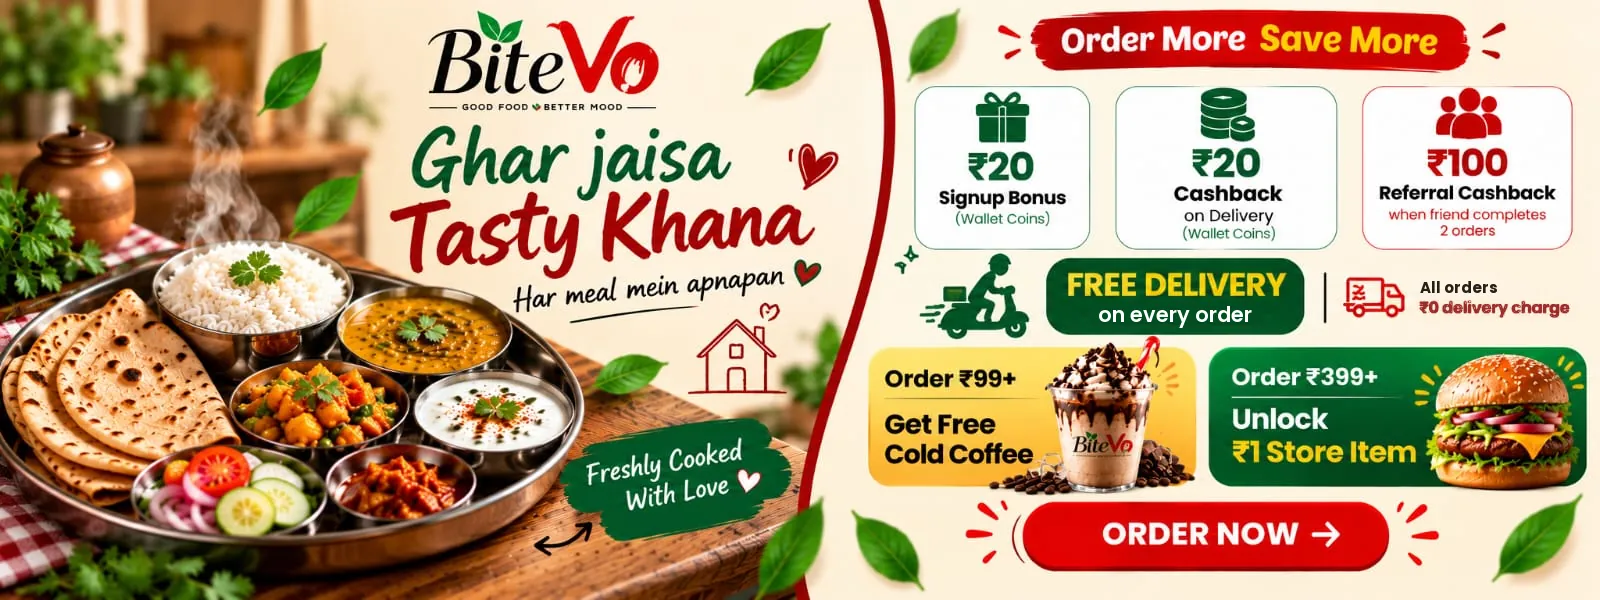
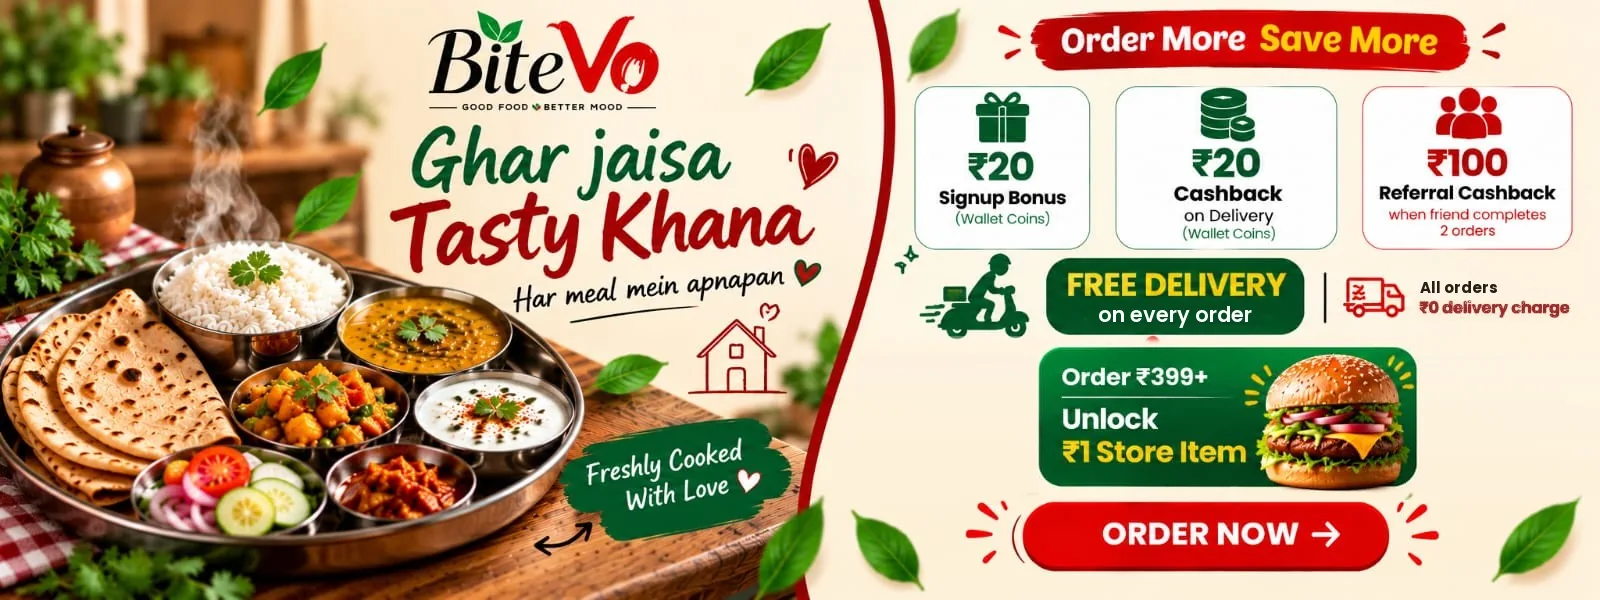
Remove the free Cold Coffee offer everywhere
- Pricing: a first order of ₹99+ no longer gets a free Cold Coffee (lib/offers.js
  freeCoffee, the bill line, its "Free Cold Coffee on your first order" offer and the
  bill's freeCoffee field are gone). FREE_COFFEE_FROM is no longer read (config,
  .env.example); /api/config's offers no longer list it.
- Banners (website and app): the "First order? Get free cold coffee" banner is deleted.
  The "Order more, save more" banner no longer has the "Order ₹99+ Get Free Cold Coffee"
  tile; the ₹1 store tile is centred in its place (all sizes: JPG and 800/1200/1600
  WebP, and the app's 800 WebP). Alt texts updated.
- With one banner left, the website's slider shows no arrows or dots and doesn't move;
  the app shows no dots. The page preloads the remaining banner (vite.config.js).

Orders already placed keep their free coffee line as it was.

Changed region(s): [[0.5312, 0.57, 1.0, 0.84]]

diff --git a/frontend/src/components/BannerSlider.jsx b/frontend/src/components/BannerSlider.jsx
@@ -7,17 +7,15 @@ import { prefersReducedMotion } from '../lib/motion.js';
 // pointer or keyboard focus is on it, and stays still for visitors who ask for reduced motion.
 // Images live in public/assets/banners: a 1600×600 JPG plus 800, 1200 and 1600 wide WebP copies. The first banner is
 // the biggest thing on the menu's first screen, so the page asks for it straight away (FIRST_BANNER in
-// vite.config.js) and ahead of other images; the rest wait until they're nearly in view.
+// vite.config.js) and ahead of other images; the rest wait until they're nearly in view. With one banner there
+// are no arrows or dots and nothing moves.
 const BANNERS = [
   {
-    file: 'offer-first-order',
-    alt: 'First order? Get a free cold coffee on orders above ₹99, plus free delivery.',
-  },
-  {
     file: 'offer-rewards',
-    alt: 'Order more, save more: ₹20 signup bonus, ₹20 cashback on delivery and ₹100 referral cashback in wallet coins, free delivery on every order, a free cold coffee on orders of ₹99+ and a ₹1 store item on orders of ₹399+.',
+    alt: 'Order more, save more: ₹20 signup bonus, ₹20 cashback on delivery and ₹100 referral cashback in wallet coins, free delivery on every order and a ₹1 store item on orders of ₹399+.',
   },
 ];
+const MANY = BANNERS.length > 1;
 
 const INTERVAL = 5000;
 
@@ -41,7 +39,7 @@ export default function BannerSlider() {
 
   // Restarts after every change of banner, so a swipe gets a full interval before the next move.
   useEffect(() => {
-    if (hovered || focused || prefersReducedMotion()) return;
+    if (!MANY || hovered || focused || prefersReducedMotion()) return;
     const timer = setInterval(() => { if (!document.hidden) goTo(active + 1); }, INTERVAL);
     return () => clearInterval(timer);
   }, [active, hovered, focused]);
@@ -75,25 +73,31 @@ export default function BannerSlider() {
               </div>
             ))}
           </div>
-          <button type="button" className="banners__arrow banners__arrow--prev" onClick={() => goTo(active - 1)} aria-label="Previous offer">
-            <ChevronRight />
-          </button>
-          <button type="button" className="banners__arrow banners__arrow--next" onClick={() => goTo(active + 1)} aria-label="Next offer">
-            <ChevronRight />
-          </button>
+          {MANY && (
+            <>
+              <button type="button" className="banners__arrow banners__arrow--prev" onClick={() => goTo(active - 1)} aria-label="Previous offer">
+                <ChevronRight />
+              </button>
+              <button type="button" className="banners__arrow banners__arrow--next" onClick={() => goTo(active + 1)} aria-label="Next offer">
+                <ChevronRight />
+              </button>
+            </>
+          )}
         </div>
-        <div className="banners__dots">
-          {BANNERS.map((b, i) => (
-            <button
-              type="button"
-              key={b.file}
-              className={`banners__dot${i === active ? ' is-active' : ''}`}
-              onClick={() => goTo(i)}
-              aria-label={`Show offer ${i + 1}`}
-              aria-current={i === active || undefined}
-            />
-          ))}
-        </div>
+        {MANY && (
+          <div className="banners__dots">
+            {BANNERS.map((b, i) => (
+              <button
+                type="button"
+                key={b.file}
+                className={`banners__dot${i === active ? ' is-active' : ''}`}
+                onClick={() => goTo(i)}
+                aria-label={`Show offer ${i + 1}`}
+                aria-current={i === active || undefined}
+              />
+            ))}
+          </div>
+        )}
       </div>
     </section>
   );

diff --git a/backend/src/pricing.js b/backend/src/pricing.js
@@ -3,7 +3,7 @@
 import { store } from './db/index.js';
 import { config } from './config.js';
 import { couponStatus, couponValue, money } from './lib/rules.js';
-import { isStoreItem, freeCoffee } from './lib/offers.js';
+import { isStoreItem } from './lib/offers.js';
 
 const MAX_LINES = 30;
 const MAX_QTY = 20;
@@ -88,9 +88,9 @@ const ordinal = n => n + (n % 100 >= 11 && n % 100 <= 13 ? 'th' : { 1: 'st', 2: 
  * The full bill for a cart.
  * Returns { items, unavailable, itemTotal, subtotal, deliveryFee, discount, cashback, coupon, couponError,
  *           total, walletBalance, walletUsed, payable, paymentMethod, minOrderValue,
- *           firstOrder, freeDelivery, deliveryNote, freeCoffee, storeItem, deliveryCashback, offers }.
- * A free-item coupon, and the first order's free Cold Coffee, add their dish as a line marked `free`,
- * priced normally and taken off as discount (the way the admin panel reports coupon value).
+ *           firstOrder, freeDelivery, deliveryNote, storeItem, deliveryCashback, offers }.
+ * A free-item coupon adds its dish as a line marked `free`, priced normally and taken off as discount (the way
+ * the admin panel reports coupon value).
  * Guests are quoted as new customers (first order, free delivery); the order is re-quoted once they sign in.
  */
 export async function quote({ items, couponCode, useWallet }, customer) {
@@ -138,16 +138,6 @@ export async function quote({ items, couponCode, useWallet }, customer) {
     }
   }
 
-  // A free Cold Coffee on the first order of freeCoffeeFrom or more (skipped if none is available).
-  let coffee = null;
-  if (offers.freeCoffeeFrom > 0 && firstOrder && itemTotal >= offers.freeCoffeeFrom) {
-    coffee = await freeCoffee();
-    if (coffee) {
-      lines.push({ productId: coffee._id, name: coffee.name, category: coffee.category, price: coffee.price, qty: 1, isVeg: Boolean(coffee.isVeg), free: true, offer: 'first_order_coffee' });
-      discount += coffee.price;
-    }
-  }
-
   const subtotal = lines.reduce((s, l) => s + l.price * l.qty, 0);
   const total = Math.max(0, subtotal + deliveryFee - discount);
   const balance = customer ? await walletBalance(customer._id) : 0;
@@ -176,12 +166,10 @@ export async function quote({ items, couponCode, useWallet }, customer) {
     firstOrder,
     freeDelivery: { orders: alwaysFree ? null : config.freeDeliveryOrders, left: freeLeft, always: alwaysFree, applied: freeNow && itemTotal > 0 },
     deliveryNote,
-    freeCoffee: coffee ? { name: coffee.name, value: coffee.price } : null,
     storeItem: unlockAt > 0 ? { unlockAt, otherItemsTotal, moreNeeded: Math.max(0, unlockAt - otherItemsTotal), unlocked: otherItemsTotal >= unlockAt, inCart: storeQty, error: storeError } : null,
     deliveryCashback,
     offers: [
       freeNow && itemTotal > 0 && { key: 'free_delivery', text: deliveryNote },
-      coffee && { key: 'first_order_coffee', text: `Free ${coffee.name} on your first order` },
       deliveryCashback > 0 && { key: 'delivery_cashback', text: `${money(deliveryCashback)} cashback to your wallet after delivery` },
     ].filter(Boolean),
   };

diff --git a/backend/src/lib/offers.js b/backend/src/lib/offers.js
@@ -1,7 +1,7 @@
 // "Order more, save more": a signup bonus for every new account and cashback on every delivered order
-// (both wallet coins), free delivery on a customer's first few orders, a free Cold Coffee on the first
-// order, and one ₹1 store item once the rest of the order is big enough. Amounts live in config.offers;
-// the bill side (delivery, Cold Coffee, ₹1 store) is worked out in ../pricing.js.
+// (both wallet coins), free delivery on a customer's first few orders, and one ₹1 store item once the rest
+// of the order is big enough. Amounts live in config.offers; the bill side (delivery, ₹1 store) is worked
+// out in ../pricing.js.
 //
 // Wallet coins are walletTxns of type "cashback" (with `source` saying why), the same as referral rewards,
 // so the admin panel's Wallet page lists them.
@@ -14,13 +14,6 @@ import { serialize } from './rules.js';
 // Products in the ₹1 store: the same rule as the website's menu tabs (frontend/src/lib/menuTabs.js).
 const STORE = /₹\s?1\b|\b1\s?item|rupee|rupay|\bstore\b/i;
 export const isStoreItem = (product, categoryLabel = '') => product.price <= 1 || STORE.test(`${product.category} ${categoryLabel}`);
-
-// The Cold Coffee given free on a first order: one called just "Cold Coffee" if there is one, else any
-// available dish with it in the name (not a combo).
-export async function freeCoffee() {
-  const available = (await store.find('products', { isAvailable: true })).filter(p => p.type !== 'combo' && p.price > 1);
-  return available.find(p => /^\s*cold\s+coffee\s*$/i.test(p.name)) || available.find(p => /\bcold\s+coffee\b/i.test(p.name)) || null;
-}
 
 // Each payment's wallet entry has an id worked out from what it's for, so it can't be paid twice: a
 // second insert with the same id fails in MongoDB and is skipped. Marking the account or order as paid

diff --git a/mobile/src/screens/MenuScreen.js b/mobile/src/screens/MenuScreen.js
@@ -22,8 +22,7 @@ import { Alert, ChevronDown, ChevronRight, Search } from '../components/Icons';
 import { C, R, shadow } from '../theme';
 
 const BANNERS = [
-  { key: 'first', source: require('../assets/offer-first-order-800.webp'), alt: 'First order? Free cold coffee on orders above ₹99, plus free delivery.' },
-  { key: 'rewards', source: require('../assets/offer-rewards-800.webp'), alt: 'Order more, save more: signup bonus, cashback on delivery, referral cashback and more.' },
+  { key: 'rewards', source: require('../assets/offer-rewards-800.webp'), alt: 'Order more, save more: signup bonus, cashback on delivery, referral cashback, free delivery and a ₹1 store item on orders of ₹399+.' },
 ];
 
 function Banners() {
@@ -40,7 +39,7 @@ function Banners() {
           <Image key={b.key} source={b.source} accessibilityLabel={b.alt} style={{ width, height: width * 0.375, borderRadius: R.md }} resizeMode="cover" />
         ))}
       </ScrollView>
-      <View style={st.dots}>{BANNERS.map((b, i) => <View key={b.key} style={[st.dot, i === active && st.dotOn]} />)}</View>
+      {BANNERS.length > 1 && <View style={st.dots}>{BANNERS.map((b, i) => <View key={b.key} style={[st.dot, i === active && st.dotOn]} />)}</View>}
     </View>
   );
 }

diff --git a/backend/src/routes/public.js b/backend/src/routes/public.js
@@ -28,8 +28,8 @@ router.get('/config', async (req, res) => {
     freeDeliveryOrders: config.deliveryFee > 0 ? config.freeDeliveryOrders : 0, // delivery is free on each customer's first orders (0 = always free, or never)
     freeDeliveryAbove: null, // dropped (kept so older pages don't break)
     minOrderValue: config.minOrderValue,
-    // "Order more, save more" (0 = off): signup bonus and per-order cashback (wallet coins), the order
-    // total that gets a first order its free Cold Coffee, and what unlocks one ₹1 store item.
+    // "Order more, save more" (0 = off): signup bonus and per-order cashback (wallet coins), and what unlocks
+    // one ₹1 store item.
     offers: config.offers,
     otpDevMode: config.otpDevMode,
     googleClientId: config.googleClientId || null, // shows "Continue with Google" when set

diff --git a/frontend/vite.config.js b/frontend/vite.config.js
@@ -7,8 +7,8 @@ const allowedHosts = ['bitevo.in', 'www.bitevo.in'];
 
 // The first offer banner is the biggest thing on the menu's first screen (see BannerSlider.jsx).
 const FIRST_BANNER = {
-  href: '/assets/banners/offer-first-order-800.webp',
-  srcset: '/assets/banners/offer-first-order-800.webp 800w, /assets/banners/offer-first-order-1200.webp 1200w, /assets/banners/offer-first-order-1600.webp 1600w',
+  href: '/assets/banners/offer-rewards-800.webp',
+  srcset: '/assets/banners/offer-rewards-800.webp 800w, /assets/banners/offer-rewards-1200.webp 1200w, /assets/banners/offer-rewards-1600.webp 1600w',
   sizes: '(max-width: 1172px) calc(100vw - 32px), 1140px',
 };
 

diff --git a/frontend/src/checkout.css b/frontend/src/checkout.css
@@ -108,7 +108,7 @@
 .co-wallet.is-on .co-switch span { left: 23px; }
 .co-wallet input:focus-visible + .co-switch { outline: 2px solid var(--red); outline-offset: 2px; }
 
-/* Offers already on this order (free delivery, first-order coffee, cashback) */
+/* Offers already on this order (free delivery, cashback) */
 .co-perks { list-style: none; margin: 14px 0 0; padding: 0; display: grid; gap: 8px; }
 .co-perks li { display: flex; align-items: center; gap: 8px; font-size: 13.5px; font-weight: 600; color: #2C6B23; }
 .co-perks svg { width: 16px; height: 16px; flex: none; fill: var(--green); stroke: none; }

diff --git a/backend/src/config.js b/backend/src/config.js
@@ -85,7 +85,6 @@ export const config = {
   offers: {
     signupBonus: num(process.env.SIGNUP_BONUS, 20), // wallet coins for every new account
     deliveryCashback: num(process.env.DELIVERY_CASHBACK, 20), // wallet coins for every delivered order
-    freeCoffeeFrom: num(process.env.FREE_COFFEE_FROM, 99), // first order of at least this much gets a free Cold Coffee
     storeUnlockAt: num(process.env.STORE_UNLOCK_AT, 399), // other items needed before one ₹1 store item can be added
   },
   otpDevMode: process.env.OTP_DEV_MODE !== 'false',
